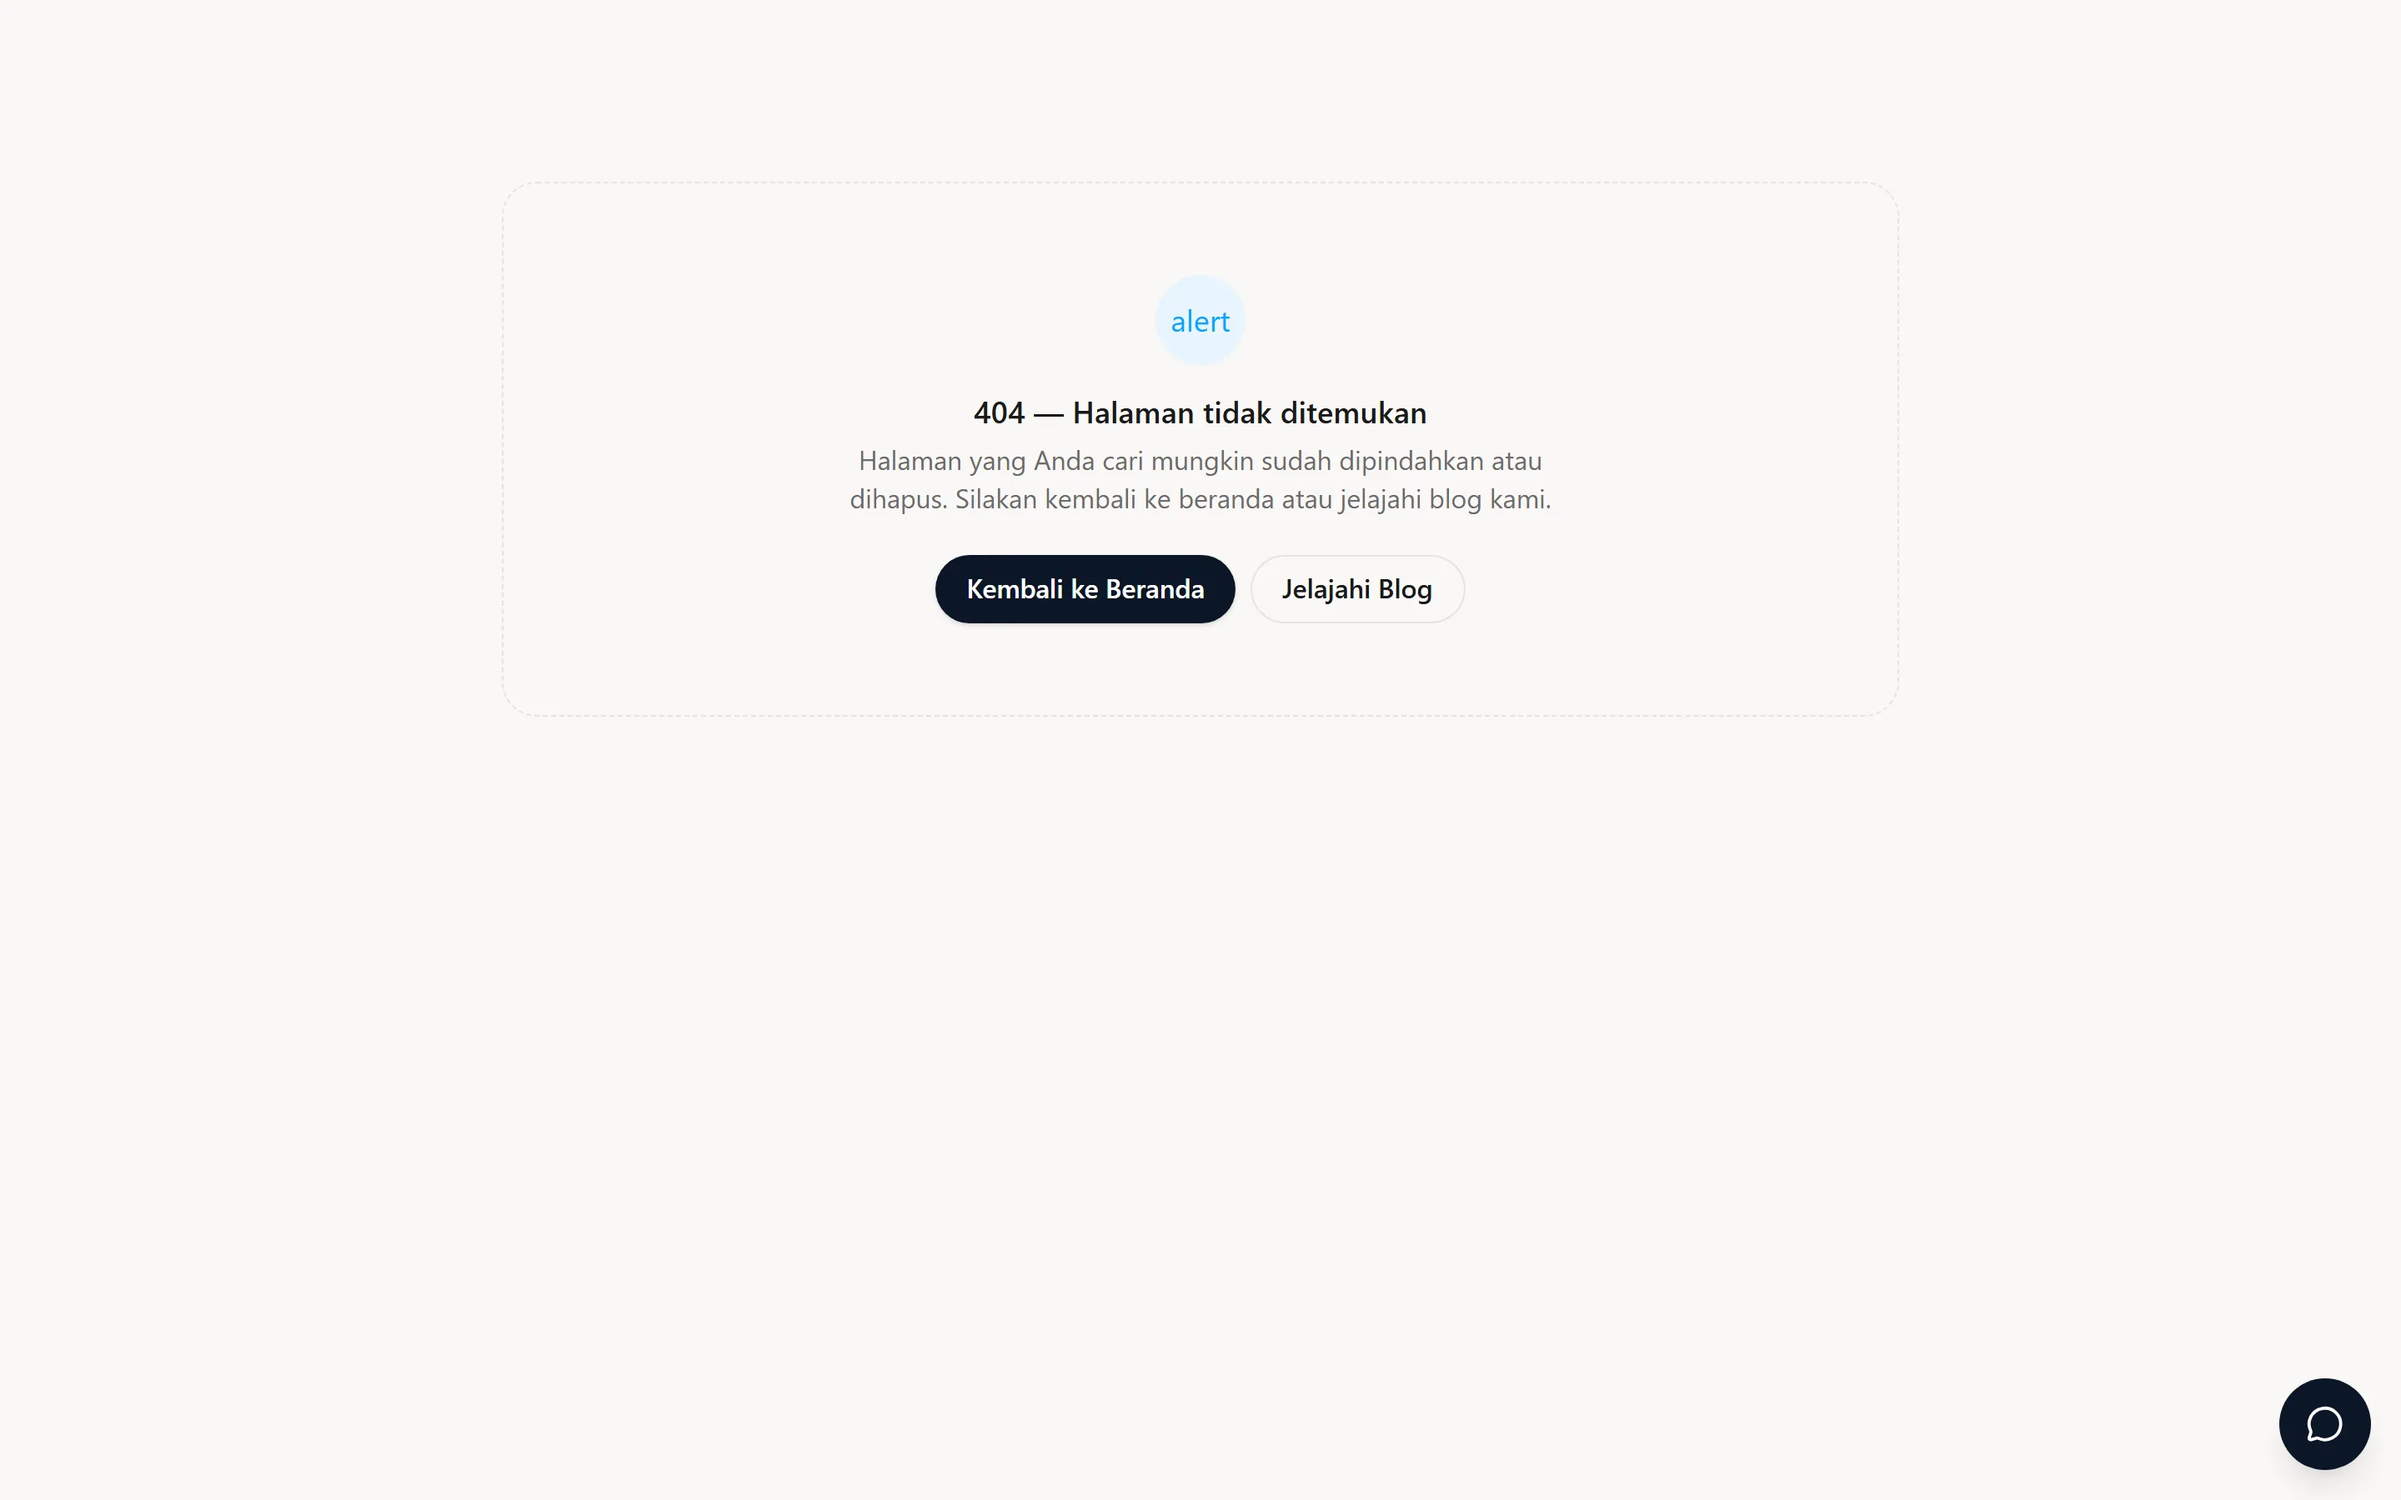
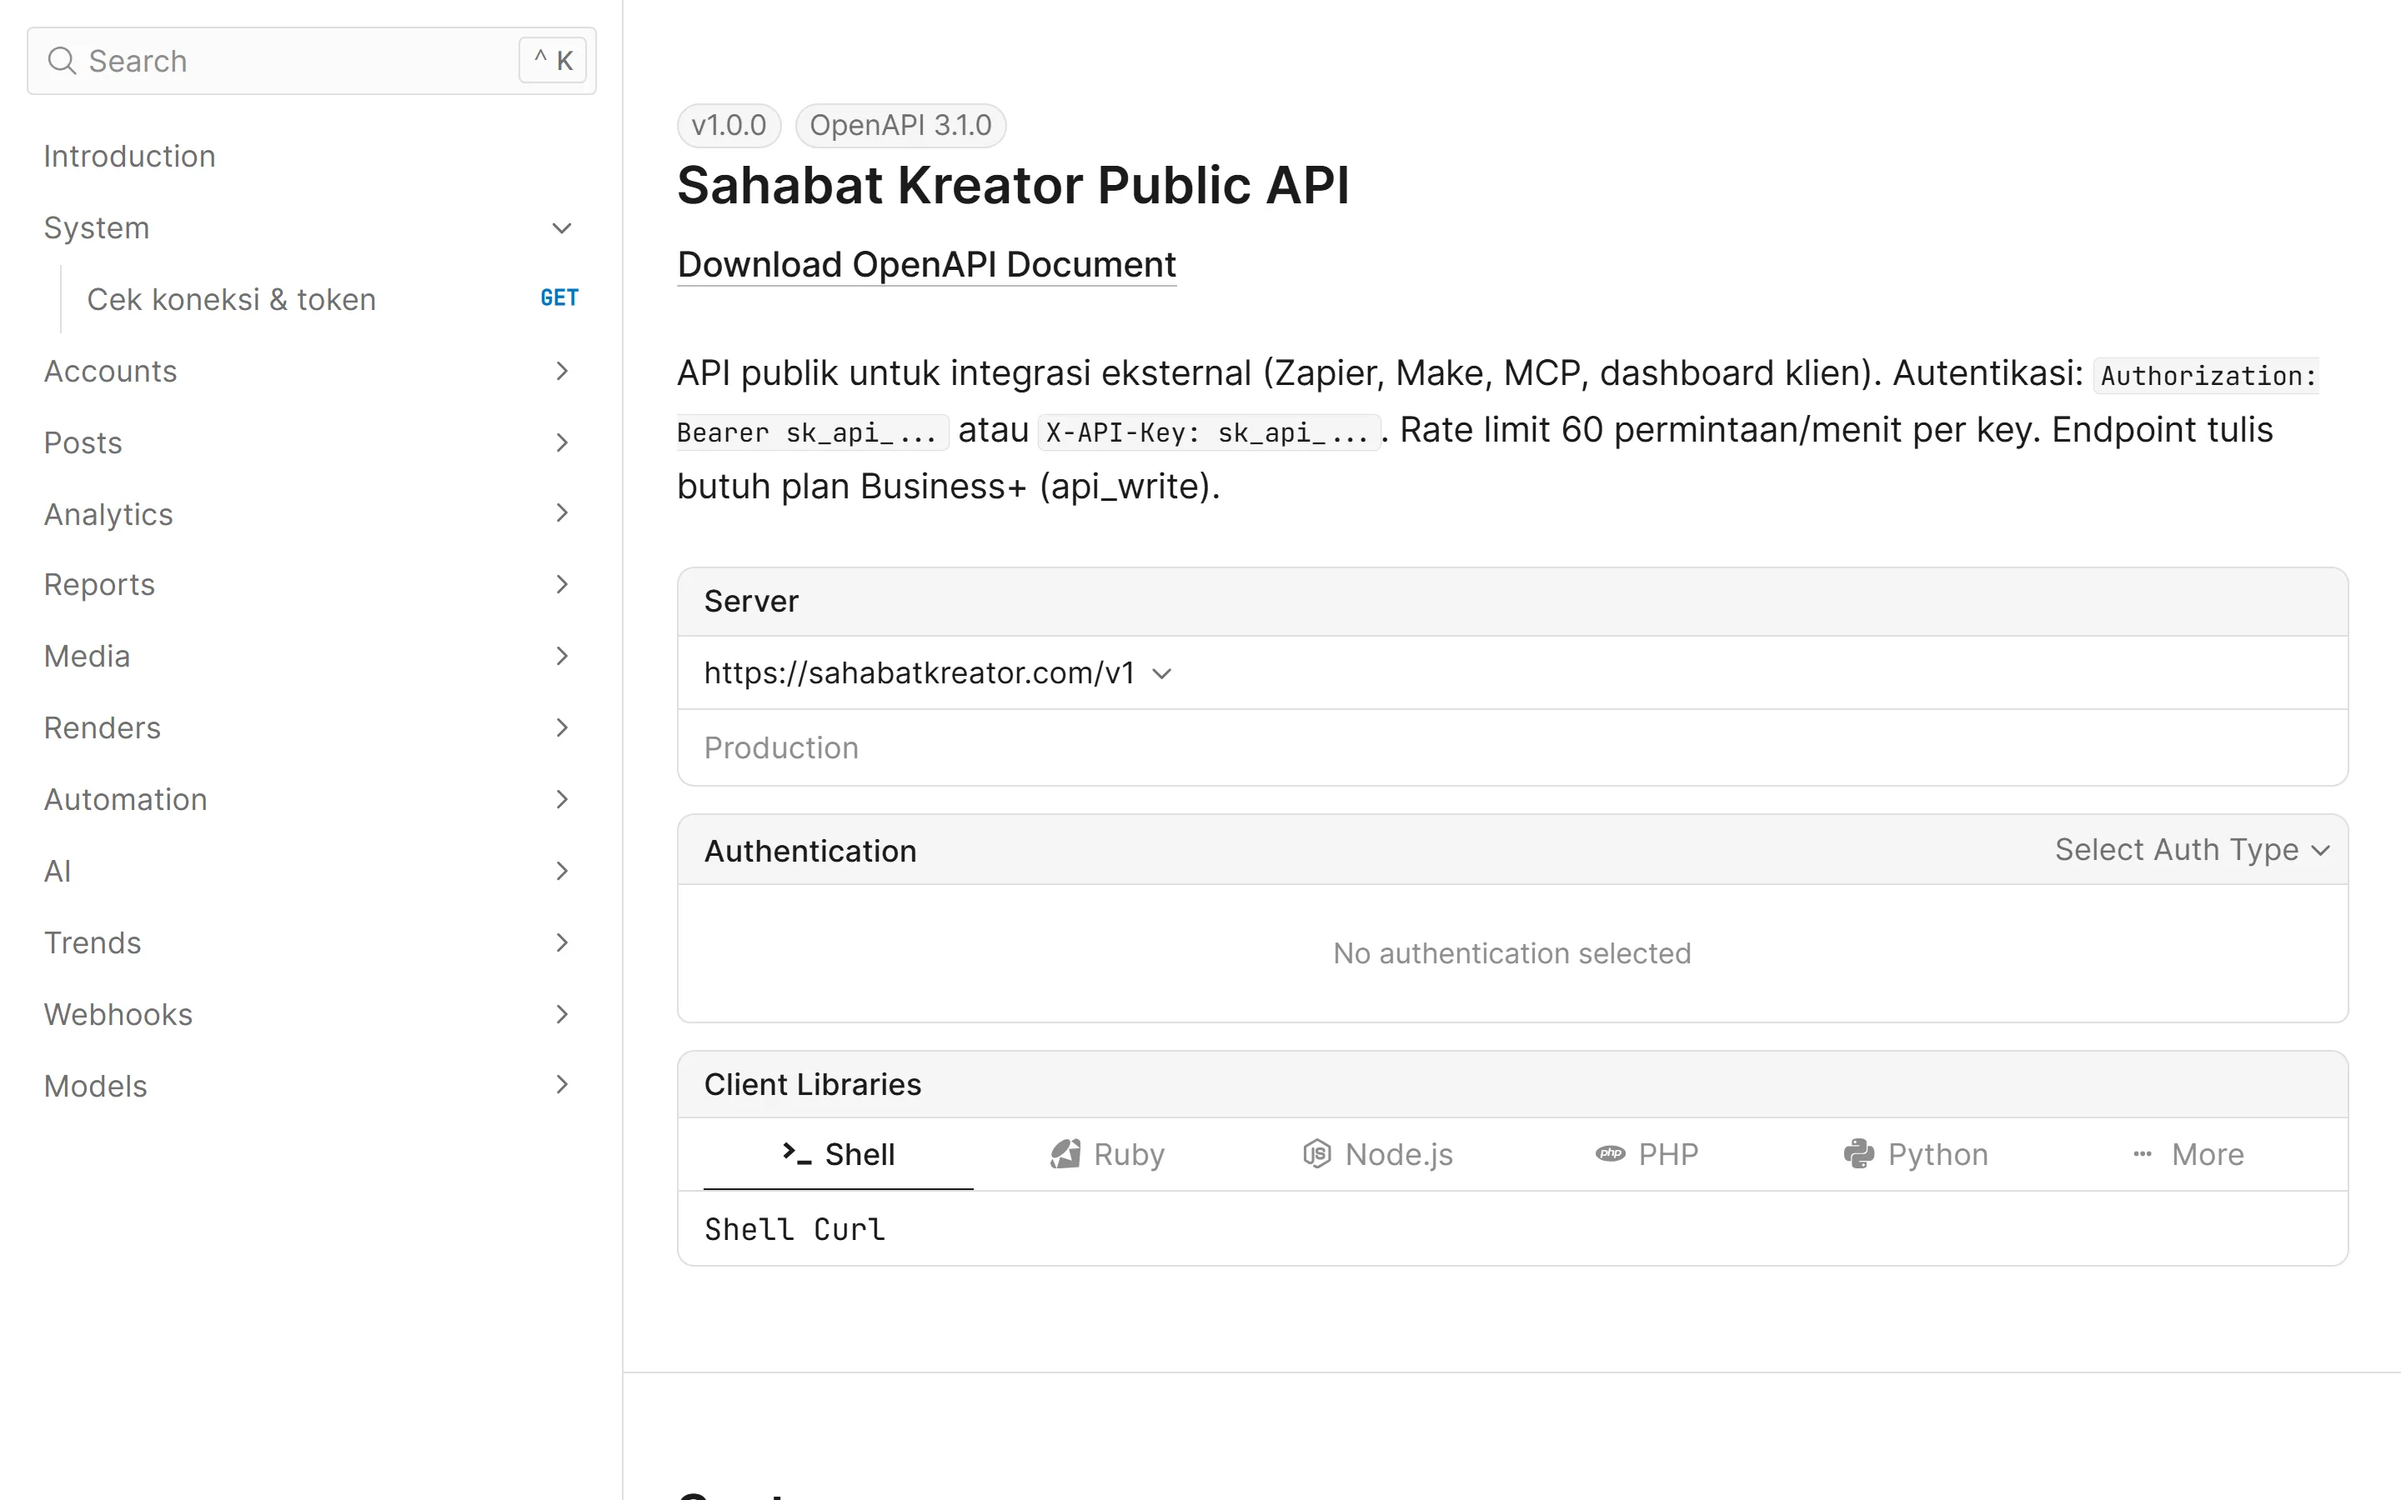
fix(docs): tautan & navigasi ke halaman milik server
Dua bug yang membuat /v1/docs (Scalar) tampak rusak:

1. Komponen Anchor/CardLink MDX memperlakukan SEMUA href berawalan '/' sebagai
   route SPA. Akibatnya tautan ke /v1/docs dan /v1/openapi.json diklik lewat
   react-router, tidak ada route yang cocok, dan pengguna melihat halaman 404
   padahal servernya sehat. Sekarang path milik server memakai <a> biasa.

2. Service worker menyajikan index.html untuk SEMUA navigasi kecuali /api/*.
   Denylist itu sudah pernah diperluas untuk kasus serupa (link verifikasi
   email), tapi belum mencakup /v1/*, /docs, /openapi.json, /health, /mcp, dan
   /sitemap-blog.xml — jadi pengguna dengan PWA terpasang yang membuka
   /v1/docs melihat halaman 404. Denylist kini sejalan dengan proxy dev di
   vite.config.ts.

Ditemukan saat memeriksa hasil tangkapan layar dokumentasi: shot
developers/referensi-api.webp menangkap halaman 404, bukan Scalar.

Skrip tangkapan layar juga diperbaiki: service worker diblokir di konteks
Playwright (kita ingin halaman yang dilayani server, bukan shell SPA), dan
kredensial kini hanya wajib bila ada shot yang memang perlu login.

diff --git a/apps/web/src/components/docs/mdx-components.tsx b/apps/web/src/components/docs/mdx-components.tsx
@@ -67,10 +67,35 @@ function heading(level: 1 | 2 | 3 | 4) {
   };
 }
 
+/**
+ * Path yang dilayani **server**, bukan route SPA. Tautan ke path ini wajib
+ * memakai <a> biasa: kalau dipaksa lewat react-router, router tidak menemukan
+ * route-nya dan pengguna melihat halaman 404 padahal servernya sehat.
+ *
+ * Daftar ini harus sejalan dengan dua tempat lain:
+ *   • proxy dev di apps/web/vite.config.ts (komentar "bukan route SPA")
+ *   • denylist service worker di apps/web/src/sw.ts
+ */
+const SERVER_OWNED_PATHS: RegExp[] = [
+  /^\/api\//,
+  /^\/v1(\/|$|\?)/,
+  /^\/docs(\/|$|\?)/,
+  /^\/openapi\.json($|\?)/,
+  /^\/health($|\?)/,
+  /^\/mcp($|\/|\?)/,
+  /^\/sitemap-blog\.xml($|\?)/,
+];
+
+function isSpaPath(href: string): boolean {
+  if (!href.startsWith("/")) return false;
+  return !SERVER_OWNED_PATHS.some((pattern) => pattern.test(href));
+}
+
 function Anchor({ href = "", children }: { href?: string; children?: ReactNode }) {
   const className =
     "font-medium text-[var(--accent-gold)] underline decoration-[var(--accent-gold)]/40 underline-offset-2 transition-colors hover:decoration-[var(--accent-gold)]";
-  if (href.startsWith("/") || href.startsWith("#")) {
+
+  if (isSpaPath(href) || href.startsWith("#")) {
     return (
       <Link to={href} className={className}>
         {children}
@@ -191,16 +216,28 @@ export function CardLink({
   title: string;
   children?: ReactNode;
 }) {
-  return (
-    <Link
-      to={href}
-      className="group rounded-[var(--radius-lg)] border border-[var(--border)] bg-[var(--bg-secondary)] p-4 transition-colors hover:border-[var(--accent-gold)]/50"
-    >
+  const className =
+    "group rounded-[var(--radius-lg)] border border-[var(--border)] bg-[var(--bg-secondary)] p-4 transition-colors hover:border-[var(--accent-gold)]/50";
+  const body = (
+    <>
       <p className="font-semibold text-[var(--text-primary)] group-hover:text-[var(--accent-gold)]">
         {title}
       </p>
       <p className="mt-1 text-[var(--text-secondary)] text-sm leading-relaxed">{children}</p>
-    </Link>
+    </>
+  );
+
+  if (isSpaPath(href)) {
+    return (
+      <Link to={href} className={className}>
+        {body}
+      </Link>
+    );
+  }
+  return (
+    <a href={href} target="_blank" rel="noopener noreferrer" className={className}>
+      {body}
+    </a>
   );
 }
 

diff --git a/apps/web/src/sw.ts b/apps/web/src/sw.ts
@@ -21,13 +21,30 @@ cleanupOutdatedCaches();
 precacheAndRoute(self.__WB_MANIFEST);
 
 // SPA navigation fallback — shell tetap render saat offline.
-// ⚠ Deny navigasi ke /api/* (mis. link verifikasi email better-auth
-// /api/auth/verify-email?token=...&callbackURL=...) — biarkan sampai ke
-// server. Tanpa ini SW mencegat link dari email → SPA render 404 page.
-const denyNavigationApi = new NavigationRoute(createHandlerBoundToURL("index.html"), {
-  denylist: [/^\/api\//],
+//
+// ⚠ Denylist ini WAJIB memuat semua path yang dilayani SERVER, bukan SPA.
+// Tanpa itu service worker menyajikan index.html untuk navigasi ke path
+// tersebut, React Router tidak menemukan route-nya, dan pengguna melihat
+// halaman 404 padahal servernya sehat.
+//
+//   • /api/*            — link verifikasi email better-auth
+//                         (/api/auth/verify-email?token=…&callbackURL=…)
+//   • /v1/*             — Public API v1, termasuk /v1/docs (Scalar) dan
+//                         /v1/openapi.json
+//   • /docs             — Scalar API reference internal
+//   • /openapi.json     — spesifikasi OpenAPI internal
+//   • /health           — health check
+//   • /mcp              — MCP remote (POST, tapi GET/DELETE punya respons sendiri)
+//   • /sitemap-blog.xml — sitemap blog yang dirender server
+//
+// Daftar yang sama dipakai proxy dev di vite.config.ts, dan
+// components/docs/mdx-components.tsx memakainya untuk memilih <a> vs <Link>.
+const SERVER_OWNED =
+  /^\/(api\/|v1(\/|$)|docs(\/|$)|openapi\.json$|health$|mcp($|\/)|sitemap-blog\.xml$)/;
+const spaNavigation = new NavigationRoute(createHandlerBoundToURL("index.html"), {
+  denylist: [SERVER_OWNED],
 });
-registerRoute(denyNavigationApi);
+registerRoute(spaNavigation);
 
 // ---------------------------------------------------------------------------
 // Web Push — tampilkan notifikasi dari payload server

diff --git a/apps/web/scripts/docs-screenshots.ts b/apps/web/scripts/docs-screenshots.ts
@@ -245,20 +245,23 @@ async function settle(page: Page) {
 }
 
 async function main() {
-  if (!EMAIL || !PASSWORD) {
-    console.error(
-      "DOCS_SHOT_EMAIL dan DOCS_SHOT_PASSWORD wajib diisi.\n" +
-        "Contoh:\n  DOCS_SHOT_EMAIL=demo@example.com DOCS_SHOT_PASSWORD=... bun run docs:screenshots",
-    );
-    process.exit(1);
-  }
-
   const shots = ONLY
     ? SHOTS.filter((shot) => shot.name.includes(ONLY) || shot.label.toLowerCase().includes(ONLY))
     : SHOTS;
 
   if (shots.length === 0) {
     console.error(`Tidak ada shot yang cocok dengan filter "${ONLY}".`);
+    process.exit(1);
+  }
+
+  // Kredensial hanya wajib bila ada shot yang memang perlu masuk. Halaman
+  // publik (mis. /v1/docs) bisa ditangkap tanpa akun sama sekali.
+  const needsAuth = shots.some((shot) => shot.auth);
+  if (needsAuth && (!EMAIL || !PASSWORD)) {
+    console.error(
+      "DOCS_SHOT_EMAIL dan DOCS_SHOT_PASSWORD wajib diisi untuk shot yang butuh login.\n" +
+        "Contoh:\n  DOCS_SHOT_EMAIL=demo@example.com DOCS_SHOT_PASSWORD=... bun run docs:screenshots",
+    );
     process.exit(1);
   }
 
@@ -271,13 +274,17 @@ async function main() {
     timezoneId: "Asia/Jakarta",
     // Tema terang: paling aman untuk dibaca di semua perangkat.
     colorScheme: "light",
+    // Service worker menyajikan shell SPA untuk navigasi — kalau dibiarkan,
+    // halaman yang dilayani server (mis. /v1/docs milik Scalar) tertangkap
+    // sebagai halaman 404 milik React Router.
+    serviceWorkers: "block",
   });
   const page = await context.newPage();
 
   await mkdir(path.join(OUT_DIR, "panduan"), { recursive: true });
   await mkdir(path.join(OUT_DIR, "developers"), { recursive: true });
 
-  if (shots.some((shot) => shot.auth)) {
+  if (needsAuth) {
     process.stdout.write("Masuk sebagai akun demo… ");
     await login(page);
     console.log("berhasil.");
